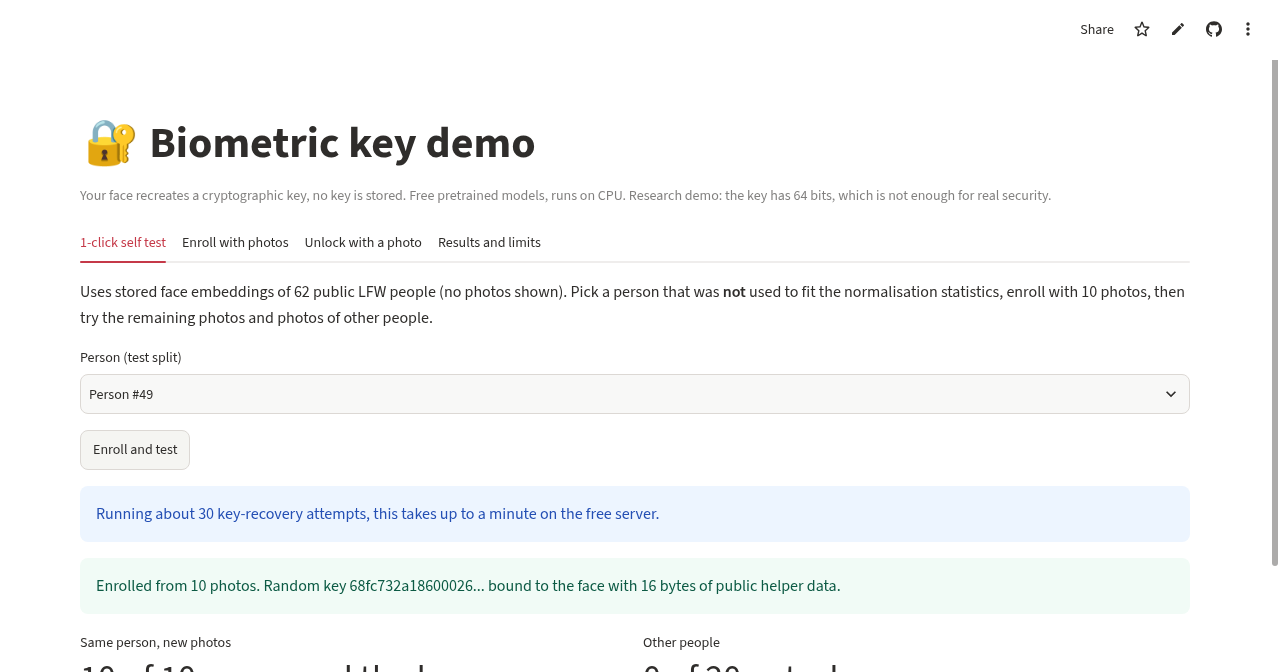
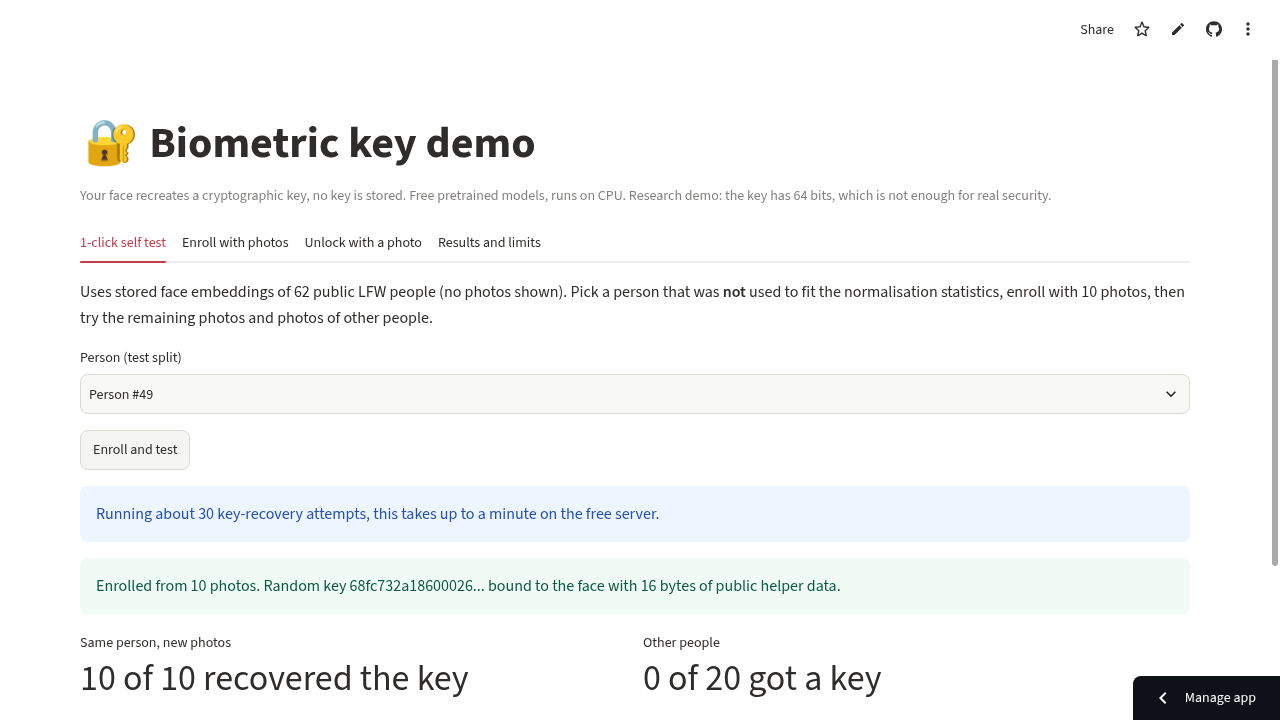
projects: add signature forgery detection with live demo, fix biometric screenshot crop

diff --git a/projects.html b/projects.html
@@ -188,9 +188,17 @@ div.kv{display:grid;grid-template-columns:112px minmax(0,1fr);margin-bottom:28px
     <details class="arc" id="biometric" data-cat="cyber">
       <summary><span class="ac">P.10</span><span class="at">Biometric Key Generation</span><span class="ao">A face recreates a cryptographic key. No key is stored.</span><span class="ak">SECURITY</span><span class="ax" aria-hidden="true">+</span></summary>
       <div class="ab pjb">
-<figure class="shot"><img onerror="this.closest('figure').remove()" alt="Screenshot of the live biometric key demo: self test recovered the key for 10 of 10 new photos and 0 of 20 other people got a key" height="672" loading="lazy" src="assets/biometric-live-selftest.png" width="1280"/><figcaption>REAL SCREENSHOT — THE LIVE SELF TEST: 10 OF 10 NEW PHOTOS RECOVERED THE KEY, 0 OF 20 OTHER PEOPLE DID</figcaption></figure>
+<figure class="shot"><img onerror="this.closest('figure').remove()" alt="Screenshot of the live biometric key demo: self test recovered the key for 10 of 10 new photos and 0 of 20 other people got a key" height="720" loading="lazy" src="assets/biometric-live-selftest.png" width="1280"/><figcaption>REAL SCREENSHOT — THE LIVE SELF TEST: 10 OF 10 NEW PHOTOS RECOVERED THE KEY, 0 OF 20 OTHER PEOPLE DID</figcaption></figure>
 <div><div class="kv"><div class="kl">WHAT IT DOES</div><div class="kc"><p style="margin:0;max-width:560px;font-size:1rem;line-height:1.7;color:rgba(var(--ink-rgb),.8)">A fuzzy-commitment scheme: a random key is bound to a face with public helper data, then recreated from a new photo of the same person. A pretrained ResNet-50 face embedding feeds a BCH error-correcting code with soft decoding.</p></div></div><div class="kv"><div class="kl">KEY POINTS</div><div class="kc"><div style="display:flex;flex-direction:column;gap:8px;font-family:'JetBrains Mono',monospace;font-size:12px;line-height:1.6"><div><span style="color:var(--acc2)">▸ RESULT</span> — 96.7% genuine success, 0 false accepts, 64-bit key, 21 held-out LFW people</div><div><span style="color:var(--acc2)">▸ CAVEAT</span> — a 64-bit key is not real security, LFW is an easy dataset and 21 people is a small test</div></div></div></div></div>
 <div><div class="kv"><div class="kl">CONTEXT</div><div class="kc"><p style="margin:0;font-size:.92rem;line-height:1.6;color:rgba(var(--ink-rgb),.75)">Research prototype, evaluated with separate enrollment and test photos</p></div></div><div class="kv"><div class="kl">STACK</div><div class="kc"><div style="display:flex;gap:8px;flex-wrap:wrap"><span class="ib tx">BCH</span><span class="ib tx">ONNX</span><span class="ib tx">STREAMLIT</span></div></div></div><div class="kv"><div class="kl">LINK</div><div class="kc"><a class="lk" href="https://github.com/Dolphiny-1412/Biometric-ecryption" rel="noopener" target="_blank" style="margin-right:20px">VIEW ON GITHUB ↗</a><a class="lk" href="https://wifakey-biometric-key.streamlit.app/" rel="noopener" target="_blank">LIVE DEMO ↗</a></div></div></div>
+</div>
+    </details>
+    <details class="arc" id="signature" data-cat="ml">
+      <summary><span class="ac">P.11</span><span class="at">Signature Forgery Detection</span><span class="ao">A Siamese CNN that compares two signatures and scores their similarity.</span><span class="ak">ML</span><span class="ax" aria-hidden="true">+</span></summary>
+      <div class="ab pjb">
+<figure class="shot"><img onerror="this.closest('figure').remove()" alt="Screenshot of the live signature verification app: model loaded, reference and test signature panels, similarity threshold 0.30" height="672" loading="lazy" src="assets/signature-live-app.png" width="1280"/><figcaption>REAL SCREENSHOT — THE LIVE APP (FREE STREAMLIT HOSTING, SMALL fast_cnn CHECKPOINT)</figcaption></figure>
+<div><div class="kv"><div class="kl">WHAT IT DOES</div><div class="kc"><p style="margin:0;max-width:560px;font-size:1rem;line-height:1.7;color:rgba(var(--ink-rgb),.8)">Draw or upload a reference and a test signature. A Siamese CNN embeds both and the app reports whether they match, using a similarity threshold you can change.</p></div></div><div class="kv"><div class="kl">KEY POINTS</div><div class="kc"><div style="display:flex;flex-direction:column;gap:8px;font-family:'JetBrains Mono',monospace;font-size:12px;line-height:1.6"><div><span style="color:var(--acc2)">▸ STATUS</span> — demo with a small trained checkpoint, not a full evaluation</div><div><span style="color:var(--acc2)">▸ THRESHOLD</span> — default 0.30, calibrated on one genuine/forgery pair from one writer, so treat it as a rough setting</div><div><span style="color:var(--acc2)">▸ ALSO</span> — FastAPI backend, template encryption, Docker files</div></div></div></div></div>
+<div><div class="kv"><div class="kl">CONTEXT</div><div class="kc"><p style="margin:0;font-size:.92rem;line-height:1.6;color:rgba(var(--ink-rgb),.75)">Live demo runs on free Streamlit hosting and may need a click to wake up</p></div></div><div class="kv"><div class="kl">STACK</div><div class="kc"><div style="display:flex;gap:8px;flex-wrap:wrap"><span class="ib tx">PYTORCH</span><span class="ib tx">STREAMLIT</span><span class="ib tx">SIAMESE CNN</span></div></div></div><div class="kv"><div class="kl">LINK</div><div class="kc"><a class="lk" href="https://github.com/Dolphiny-1412/signature-forgery-detection" rel="noopener" target="_blank" style="margin-right:20px">VIEW ON GITHUB ↗</a><a class="lk" href="https://signature-forgery-check.streamlit.app/" rel="noopener" target="_blank">LIVE DEMO ↗</a></div></div></div>
 </div>
     </details>
   </div>
